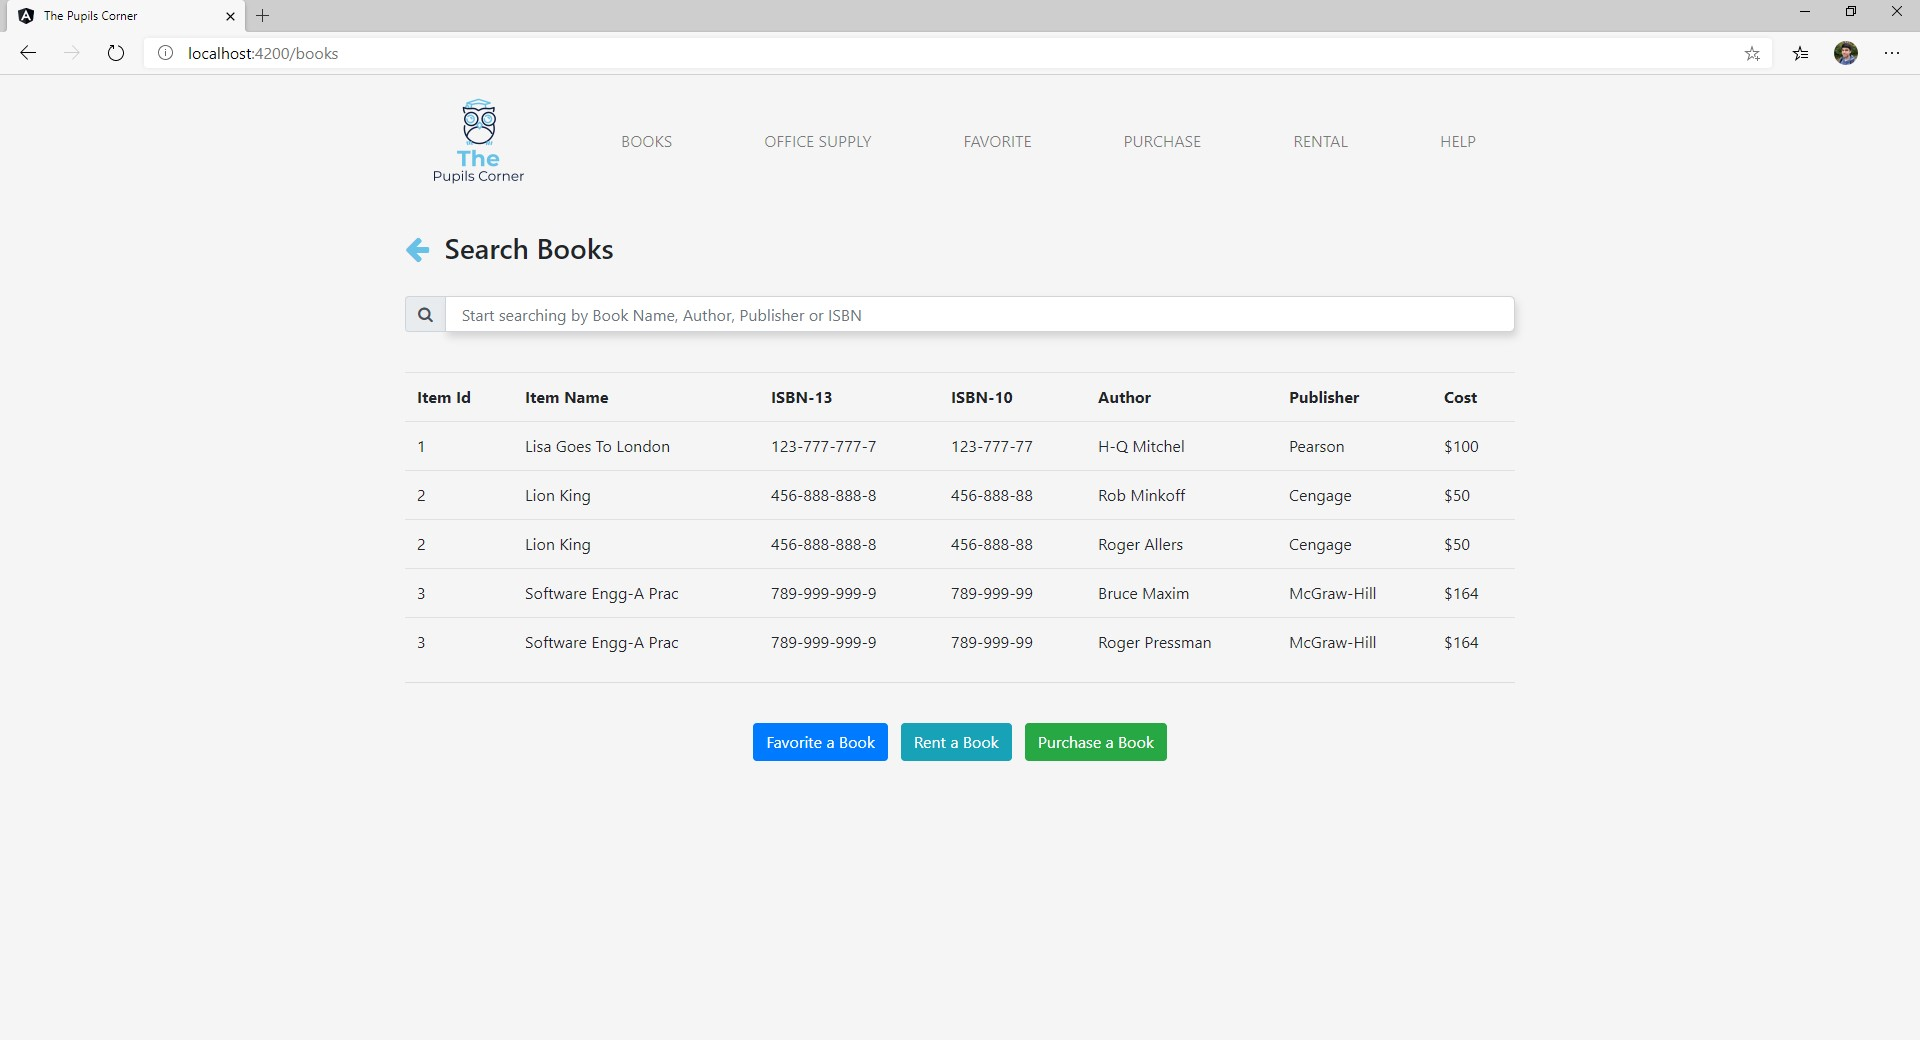
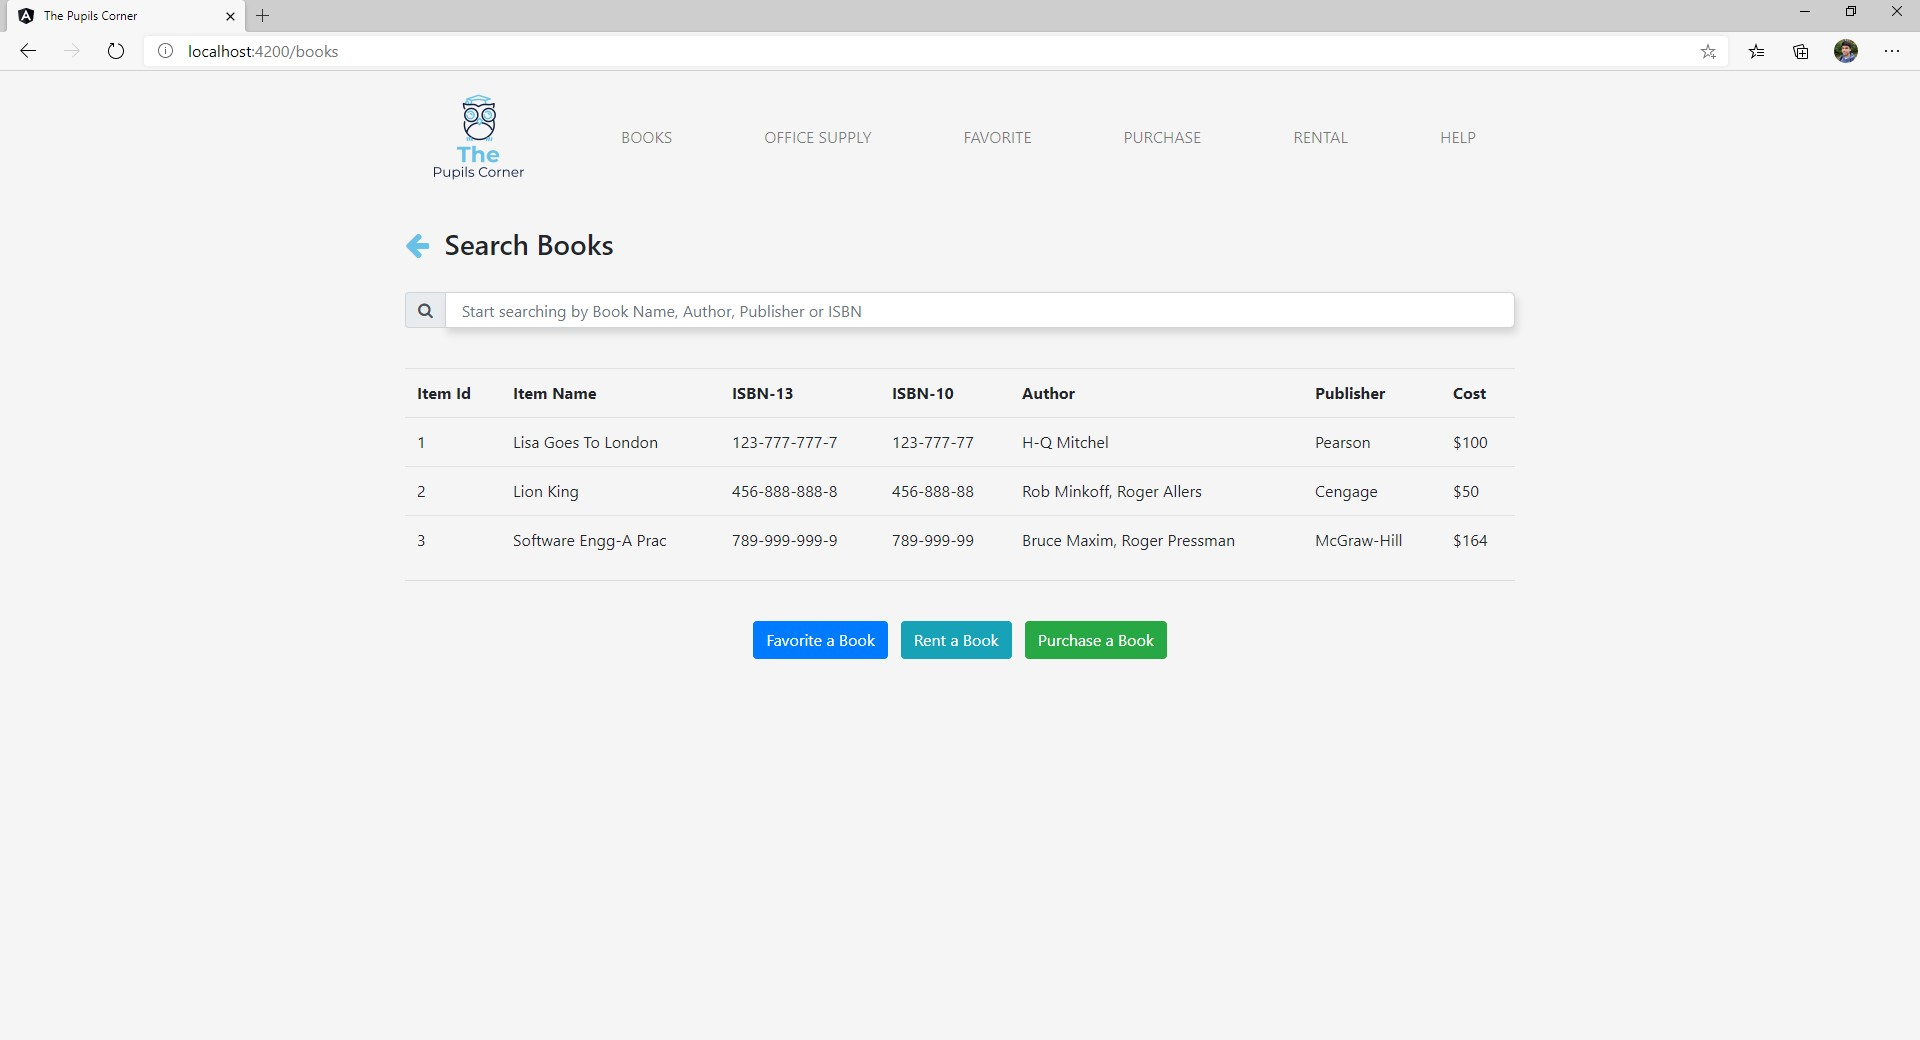
improved books view page

diff --git a/Backend/server.js b/Backend/server.js
@@ -55,12 +55,17 @@ app.get("/", function(req , res){
 ////////////////////////////////////////////////////////////////////////////////////////
 // To populate the tables for search engine
 app.get("/api/book", function(req , res){
-	var query = `   SELECT b.ItemId, b.ItemName, b.ISBN10, b.ISBN13, a.FirstName, a.LastName, p.Name, b.Cost
-					FROM Book AS b, BookAuthor AS ba, Author AS a, BookPublisher AS bp, Publisher AS p
-					WHERE a.AuthorID = ba.AuthorID AND
-					b.ItemId = ba.ItemID AND
+	var query = `   SELECT DISTINCT b2.ItemId, b2.ItemName, b2.ISBN10, b2.ISBN13,
+							STUFF((SELECT ', ' + CONCAT(FirstName, ' ', LastName)
+							FROM Author a1, BookAuthor ba1, Book b1
+							WHERE A1.AuthorID = ba1.AuthorID AND b1.ItemId = ba1.ItemID AND b1.ItemID = b2.ItemID
+							FOR XML PATH('')), 1, 1, '') AS 'Author',
+							p.[Name], b2.Cost
+				FROM Book AS b2, BookAuthor AS ba2, Author AS a2, Publisher as p, BookPublisher AS bp
+				WHERE	b2.ItemId = ba2.ItemID AND 
+					ba2.AuthorID = a2.AuthorID AND 
 					p.PublisherID = bp.PublisherID AND
-					bp.ItemID = b.ItemId					`;
+					bp.ItemID = b2.ItemId					`;
 	executeQuery (res, query);
 });
 

diff --git a/Frontend/src/app/books/books.component.html b/Frontend/src/app/books/books.component.html
@@ -39,7 +39,7 @@
             <td>{{book.ItemName}}</td>
             <td>{{book.ISBN13}}</td>
             <td>{{book.ISBN10}}</td>
-            <td>{{book.FirstName}} {{book.LastName}}</td>
+            <td>{{book.Author}}</td>
             <td>{{book.Name}}</td>
             <td>${{book.Cost}}</td>
         </tr>
